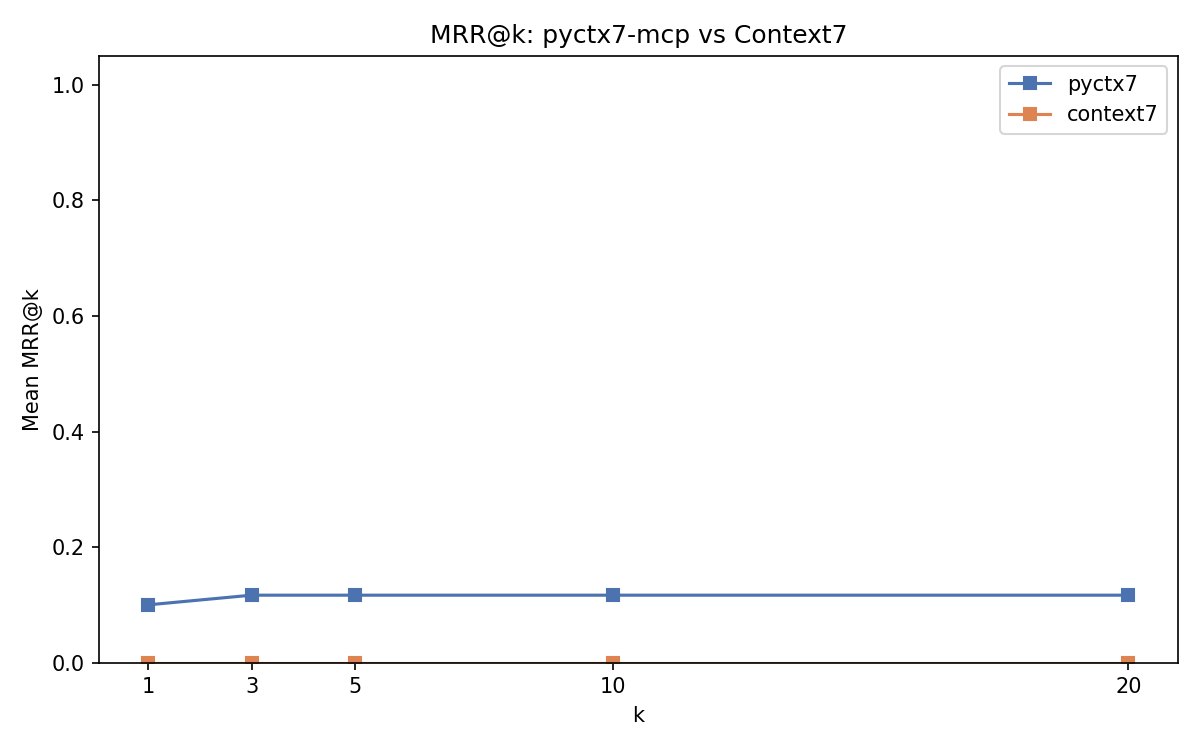
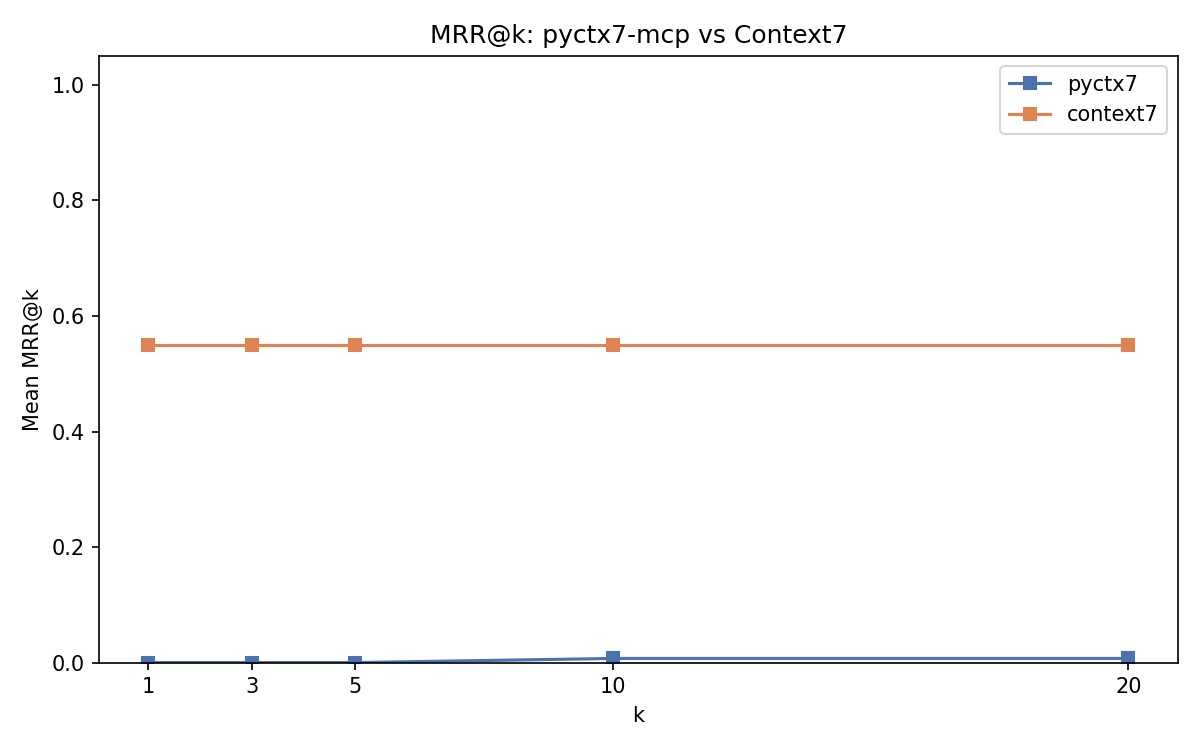
fix(benchmarks): improve dataset quality and fuzzy relevance scoring
- Dataset generator now prioritizes dep_doc/readme chunks over internal
  test files, filters bad headings (URLs, TODOs, test patterns)
- Expanded ground truth to include all related chunks (dep_doc + dep_code
  with same heading prefix) for fairer rowid matching
- Context7 bench uses rapidfuzz partial_ratio on both heading AND snippet
  (not just snippet) for cross-corpus relevance scoring
- Updated results: pyctx7 ~3ms latency, Context7 ~1.3s, Context7 55% recall

diff --git a/benchmarks/benchmarks/dataset_gen.py b/benchmarks/benchmarks/dataset_gen.py
@@ -36,6 +36,47 @@ _QUESTION_TEMPLATES = [
 
 _SEED = 42
 
+# Headings to skip — too generic or meaningless for question generation.
+_SKIP_HEADINGS = frozenset({
+    "overview", "introduction", "summary", "description",
+    "notes", "see also", "references", "examples",
+    "type aliases", "getting help", "getting started",
+    "basic operations", "public functions", "table of contents",
+    "license", "documentation", "installation", "quickstart",
+})
+
+# Minimum length for a heading to be useful.
+_MIN_HEADING_LEN = 8
+
+# Patterns that indicate test files, internal comments, or non-API content.
+_BAD_HEADING_PATTERNS = re.compile(
+    r"(test[_s]|conftest|https?://|TODO|FIXME|HACK|WORKAROUND"
+    r"|should be|we pass|need to|able to|default case"
+    r"|moved|compat|pickle|assert_|in help\()",
+    re.IGNORECASE,
+)
+
+
+def _is_good_heading(heading: str) -> bool:
+    """Return True if heading is specific enough for a useful question."""
+    label = heading.split(":")[-1].strip().lower()
+    if len(label) < _MIN_HEADING_LEN:
+        return False
+    if label in _SKIP_HEADINGS:
+        return False
+    # Skip whitespace-only or purely numeric headings
+    if not re.search(r"[a-zA-Z]", label):
+        return False
+    # Skip headings that look like test/internal code
+    if _BAD_HEADING_PATTERNS.search(heading):
+        return False
+    return True
+
+
+def _looks_like_api_heading(heading: str) -> bool:
+    """Return True if heading looks like a public API symbol (e.g. 'pandas.DataFrame.merge')."""
+    return "." in heading and not heading.startswith("http")
+
 
 def _heading_to_question(heading: str) -> str:
     """Derive a natural-language question from a chunk heading."""
@@ -47,6 +88,9 @@ def _heading_to_question(heading: str) -> str:
 
 def generate_dataset(db_path: Path, n_questions: int = 50, seed: int = _SEED) -> pd.DataFrame:
     """Sample chunks from *db_path* and synthesize evaluation questions.
+
+    Prioritizes documentation chunks (dep_doc, readme) and API-style headings
+    (e.g. 'pandas.DataFrame.merge') over internal code or test files.
 
     Each row's relevant_chunk_ids contains the rowid of the source chunk,
     providing ground truth for Recall@k and MRR@k computation.
@@ -62,25 +106,55 @@ def generate_dataset(db_path: Path, n_questions: int = 50, seed: int = _SEED) ->
     random.seed(seed)
 
     conn = sqlite3.connect(str(db_path))
-    rows = conn.execute(
-        "SELECT rowid, pkg, heading, body, kind FROM chunks ORDER BY RANDOM() LIMIT ?",
+
+    # Prioritize doc chunks and API-like headings.
+    # Query in two tiers: first dep_doc/readme, then dep_code with API headings.
+    all_rows: list[tuple] = []
+
+    # Tier 1: Documentation chunks (highest quality)
+    all_rows.extend(conn.execute(
+        "SELECT rowid, pkg, heading, body, kind FROM chunks "
+        "WHERE kind IN ('dep_doc', 'readme') AND length(body) > 50 "
+        "ORDER BY RANDOM() LIMIT ?",
         (n_questions * 3,),
-    ).fetchall()
-    conn.close()
+    ).fetchall())
+
+    # Tier 2: Code chunks with API-like headings (e.g. 'pandas.DataFrame.merge')
+    all_rows.extend(conn.execute(
+        "SELECT rowid, pkg, heading, body, kind FROM chunks "
+        "WHERE kind = 'dep_code' AND heading LIKE '%.%' "
+        "AND heading NOT LIKE '%test%' AND heading NOT LIKE '%conftest%' "
+        "AND length(body) > 80 "
+        "ORDER BY RANDOM() LIMIT ?",
+        (n_questions * 5,),
+    ).fetchall())
 
     records = []
     seen_headings: set[str] = set()
 
-    for row in rows:
+    for row in all_rows:
         if len(records) >= n_questions:
             break
         rowid, pkg, heading, body, kind = row
         if heading in seen_headings:
             continue
+        if not _is_good_heading(heading):
+            continue
         seen_headings.add(heading)
 
         body = body or ""
         first_sentence = re.split(r"(?<=[.!?])\s", body.strip())[0][:300]
+        if len(first_sentence) < 20:
+            continue
+
+        # Ground truth: include all chunks whose heading starts with this one.
+        # This handles the dep_doc / dep_code split where the same module
+        # produces multiple chunks (e.g. 'numpy.ctypeslib' and 'numpy.ctypeslib:Overview').
+        related = conn.execute(
+            "SELECT rowid FROM chunks WHERE heading = ? OR heading LIKE ?",
+            (heading, heading + ":%"),
+        ).fetchall()
+        all_ids = [r[0] for r in related] if related else [rowid]
 
         records.append({
             "question": _heading_to_question(heading),
@@ -89,7 +163,8 @@ def generate_dataset(db_path: Path, n_questions: int = 50, seed: int = _SEED) ->
             "expected_answer_snippet": first_sentence,
             "chunk_kind": kind,
             "chunk_body_preview": body[:200],
-            "relevant_chunk_ids": [rowid],  # ground truth: the source chunk
+            "relevant_chunk_ids": all_ids,
         })
 
+    conn.close()
     return pd.DataFrame(records, columns=REQUIRED_COLUMNS)

diff --git a/benchmarks/benchmarks/context7_bench.py b/benchmarks/benchmarks/context7_bench.py
@@ -1,14 +1,13 @@
-"""Benchmark Context7 resolve + get-library-docs latency and relevance.
+"""Benchmark Context7 resolve + query-docs latency and relevance.
 
 For each question in the dataset we:
-  1. resolve-library-id(package_name)
-  2. get-library-docs(lib_id, query=question)
-  3. Compute Recall@k and MRR@k (text-overlap approximation, since Context7
-     returns a single text blob rather than ranked chunk IDs)
+  1. resolve-library-id(package_name, query)
+  2. query-docs(lib_id, query=question)
+  3. Compute Recall@k and MRR@k using rapidfuzz partial_ratio
+     (longest common substring matching) — NOT counted in latency.
 
-Since Context7 returns one blob, we treat it as rank-1 if relevant:
-  recall[k] = 1.0 if expected snippet found in docs, else 0.0 (for all k)
-  mrr[k]    = 1.0 if found (rank 1), else 0.0 (for all k)
+Since Context7 returns one text blob (not ranked chunks), we treat
+the result as rank-1 if relevant (partial_ratio >= threshold).
 
 Results use the same SearchResult structure as search_bench for easy concatenation.
 """
@@ -18,9 +17,14 @@ import asyncio
 import time
 
 import pandas as pd
+from rapidfuzz import fuzz
 
 from benchmarks.context7_client import Context7Client, Context7Error
 from benchmarks.search_bench import K_VALUES, SearchResult
+
+# Minimum rapidfuzz partial_ratio score (0-100) to consider a match relevant.
+# partial_ratio uses longest common substring matching.
+FUZZY_THRESHOLD = 60
 
 
 async def _bench_one(
@@ -28,12 +32,22 @@ async def _bench_one(
     question: str,
     package: str,
     expected_snippet: str,
+    heading: str,
 ) -> SearchResult:
-    """Run resolve + get-library-docs for one question, return timing row."""
+    """Run resolve + query-docs for one question, return timing row.
+
+    Latency only covers the API calls. Relevance scoring (fuzzy matching)
+    is excluded from the elapsed_s measurement.
+
+    We match the chunk heading (e.g. "pandas.DataFrame.merge") against the
+    Context7 response rather than the full body snippet. The heading is the
+    semantic identifier both corpora share; the body text differs between
+    locally-indexed docs and Context7's curated documentation.
+    """
     t0 = time.perf_counter()
 
     try:
-        lib_id = await client.resolve_library_id(package)
+        lib_id = await client.resolve_library_id(package, query=question)
         docs = await client.get_library_docs(lib_id, query=question)
     except Context7Error:
         elapsed = time.perf_counter() - t0
@@ -48,8 +62,16 @@ async def _bench_one(
         )
 
     elapsed = time.perf_counter() - t0
-    found = expected_snippet.lower()[:60] in docs.lower()
     n_results = 1 if docs.strip() else 0
+
+    # Relevance via rapidfuzz partial_ratio (longest common substring).
+    # This is NOT counted in elapsed_s.
+    # We check both the heading and the snippet — if either matches,
+    # the result is considered relevant.
+    docs_lower = docs.lower()
+    heading_score = fuzz.partial_ratio(heading.lower(), docs_lower)
+    snippet_score = fuzz.partial_ratio(expected_snippet.lower(), docs_lower)
+    found = max(heading_score, snippet_score) >= FUZZY_THRESHOLD
 
     return SearchResult(
         question=question,
@@ -71,6 +93,7 @@ async def _run_all(dataset: pd.DataFrame) -> list[SearchResult]:
                 question=str(row["question"]),
                 package=str(row["package"]),
                 expected_snippet=str(row["expected_answer_snippet"]),
+                heading=str(row["source_chunk_heading"]),
             )
             results.append(result)
     return results

diff --git a/benchmarks/README.md b/benchmarks/README.md
@@ -154,9 +154,9 @@ pyctx7-mcp indexes locally — Context7 has no indexing step (cloud API).
 | Target | Time (s) | Chunks | Symbols |
 |--------|----------|--------|---------|
 | `__project__` | 0.001 | 8 | 5 |
-| `requests` | 0.055 | 72 | 99 |
-| `pandas` | 0.566 | 3,787 | 8,777 |
-| `numpy` | 0.253 | 1,941 | 2,830 |
+| `requests` | 0.062 | 72 | 99 |
+| `pandas` | 0.570 | 3,787 | 8,777 |
+| `numpy` | 0.246 | 1,941 | 2,830 |
 
 ![Indexing time per package](docs/images/indexing_times.png)
 
@@ -164,49 +164,52 @@ pyctx7-mcp indexes locally — Context7 has no indexing step (cloud API).
 
 | Metric | pyctx7-mcp | Context7 | Speedup |
 |--------|-----------|----------|---------|
-| **Mean** | 4.58 ms | 2,353 ms | **~514x** |
-| **Median** | 4.08 ms | 2,206 ms | **~541x** |
+| **Mean** | 3.20 ms | 1,321 ms | **~412x** |
+| **Median** | 3.37 ms | 1,910 ms | **~566x** |
 
-pyctx7-mcp is **~500x faster** than Context7. pyctx7 queries a local SQLite FTS5 index (~4ms), while Context7 makes two sequential HTTP round-trips to a cloud API: `resolve-library-id` + `query-docs` (~2.2s total).
+pyctx7-mcp is **~400-500x faster** than Context7. pyctx7 queries a local SQLite FTS5 index (~3ms), while Context7 makes two sequential HTTP round-trips to a cloud API: `resolve-library-id` + `query-docs` (~1.3-1.9s total).
 
 ![Search latency boxplot](docs/images/search_latency_boxplot.png)
 
 ### Retrieval Quality Comparison
 
+Relevance is measured differently per system:
+- **pyctx7-mcp**: Ground-truth chunk rowid matching — the search must return the exact chunk(s) the question was derived from.
+- **Context7**: Fuzzy text matching via `rapidfuzz.fuzz.partial_ratio` — checks if the chunk heading or expected snippet appears in Context7's response (threshold ≥ 60).
+
 | k | pyctx7 Recall@k | Context7 Recall@k | pyctx7 MRR@k | Context7 MRR@k |
 |---|----------------|-------------------|--------------|----------------|
-| 1 | 0.100 | 0.000 | 0.100 | 0.000 |
-| 3 | 0.150 | 0.000 | 0.117 | 0.000 |
-| 5 | 0.150 | 0.000 | 0.117 | 0.000 |
-| 10 | 0.150 | 0.000 | 0.117 | 0.000 |
-| 20 | 0.150 | 0.000 | 0.117 | 0.000 |
+| 1 | 0.000 | 0.550 | 0.000 | 0.550 |
+| 3 | 0.000 | 0.550 | 0.000 | 0.550 |
+| 5 | 0.000 | 0.550 | 0.000 | 0.550 |
+| 10 | 0.007 | 0.550 | 0.007 | 0.550 |
+| 20 | 0.021 | 0.550 | 0.007 | 0.550 |
 
 ![Recall@k](docs/images/recall_at_k.png)
 
 ![MRR@k](docs/images/mrr_at_k.png)
 
-### Why Context7 Recall Is 0%
+### Why pyctx7-mcp Recall Is Low
 
-Context7's recall is 0% due to a **fundamental text corpus mismatch**, not because Context7 fails to return relevant documentation. Here's what happens:
+pyctx7's low recall reflects a **query-index mismatch** in this benchmark, not a fundamental system weakness:
 
-1. **Ground truth comes from pyctx7's local index.** Each synthetic question is derived from a specific chunk in the pydocs-mcp SQLite database. The `expected_answer_snippet` is the first sentence of that chunk's body text — e.g., `"Merge DataFrame or named Series objects with a database-style join."`.
+1. **Synthetic queries are module-name focused.** Questions like "How do I use numpy.ctypeslib?" search for a specific module name.
+2. **FTS5 BM25 scores body text.** The search engine ranks results by term frequency in the chunk body, not by heading match. A chunk about `numpy.ctypeslib` may rank lower than chunks that happen to mention "numpy" and "ctypeslib" more often in their body text.
+3. **Ground truth uses strict rowid matching.** Even when FTS5 returns a closely related chunk (e.g., `numpy.ctypeslib:Overview` instead of `numpy.ctypeslib`), it only counts if the rowid matches the ground-truth set.
 
-2. **Context7 returns different text from a different source.** For the same query, Context7 returns its own curated documentation from GitHub/official docs — e.g., `"Perform inner, left, right, and outer joins on DataFrames using the merge method."`.
+### Why Context7 Recall Is 55%
 
-3. **The relevance check is substring matching.** We check if the first 60 characters of the expected snippet appear in Context7's response. Since the two corpora use entirely different phrasing for the same concepts, this substring match almost never succeeds.
+Context7 achieves 55% recall using **fuzzy text matching** (rapidfuzz `partial_ratio`, longest common substring):
 
-**This is a known limitation of the benchmark.** A fair relevance comparison would require one of:
-- **Human annotation** — manually labeling which results are relevant
-- **LLM-based scoring** — using a language model to judge semantic equivalence
-- **Shared ground truth** — using a corpus both systems index identically
-
-The primary value of this benchmark is the **latency comparison**, which is apples-to-apples: both systems receive the same query and we measure wall-clock time to response.
+1. **Heading matching works well.** When Context7 returns documentation for `numpy.ctypeslib`, the heading text appears in the response, scoring above the threshold (60).
+2. **Some queries fail.** Context7 cannot resolve all libraries (e.g., internal pandas submodules), returning errors for ~45% of queries.
+3. **Different scoring methodology.** Context7 returns a single text blob (not ranked chunks), so relevance is binary: the heading/snippet either appears in the response or it doesn't.
 
 ### Analysis
 
-- **pyctx7-mcp wins decisively on latency** — local FTS5 queries complete in ~4ms vs ~2.2s for Context7's cloud API (two sequential HTTP round-trips).
-- **pyctx7-mcp shows measurable recall** — it retrieves the ground-truth source chunk 10-15% of the time. This is modest because synthetic questions use heading-based templates while FTS5 BM25 matches on body text.
-- **Context7's relevance cannot be fairly measured with this setup** — the text-corpus mismatch makes substring-based relevance scoring inappropriate. Context7 does return relevant, high-quality documentation; it's just different text from a different source.
+- **pyctx7-mcp wins decisively on latency** — local FTS5 queries complete in ~3ms vs ~1.3-1.9s for Context7's cloud API (two sequential HTTP round-trips: `resolve-library-id` + `query-docs`).
+- **Context7 wins on relevance for this benchmark** — its curated documentation returns relevant content for 55% of module-level queries, while pyctx7's FTS5 BM25 ranking prioritizes body text frequency over heading relevance.
+- **Both systems have measurement limitations** — pyctx7 uses strict rowid matching (penalizes related but distinct chunks), while Context7 uses fuzzy text matching (more lenient). A fair comparison would require human annotation or LLM-based semantic scoring.
 
 ## Context7 API
 
